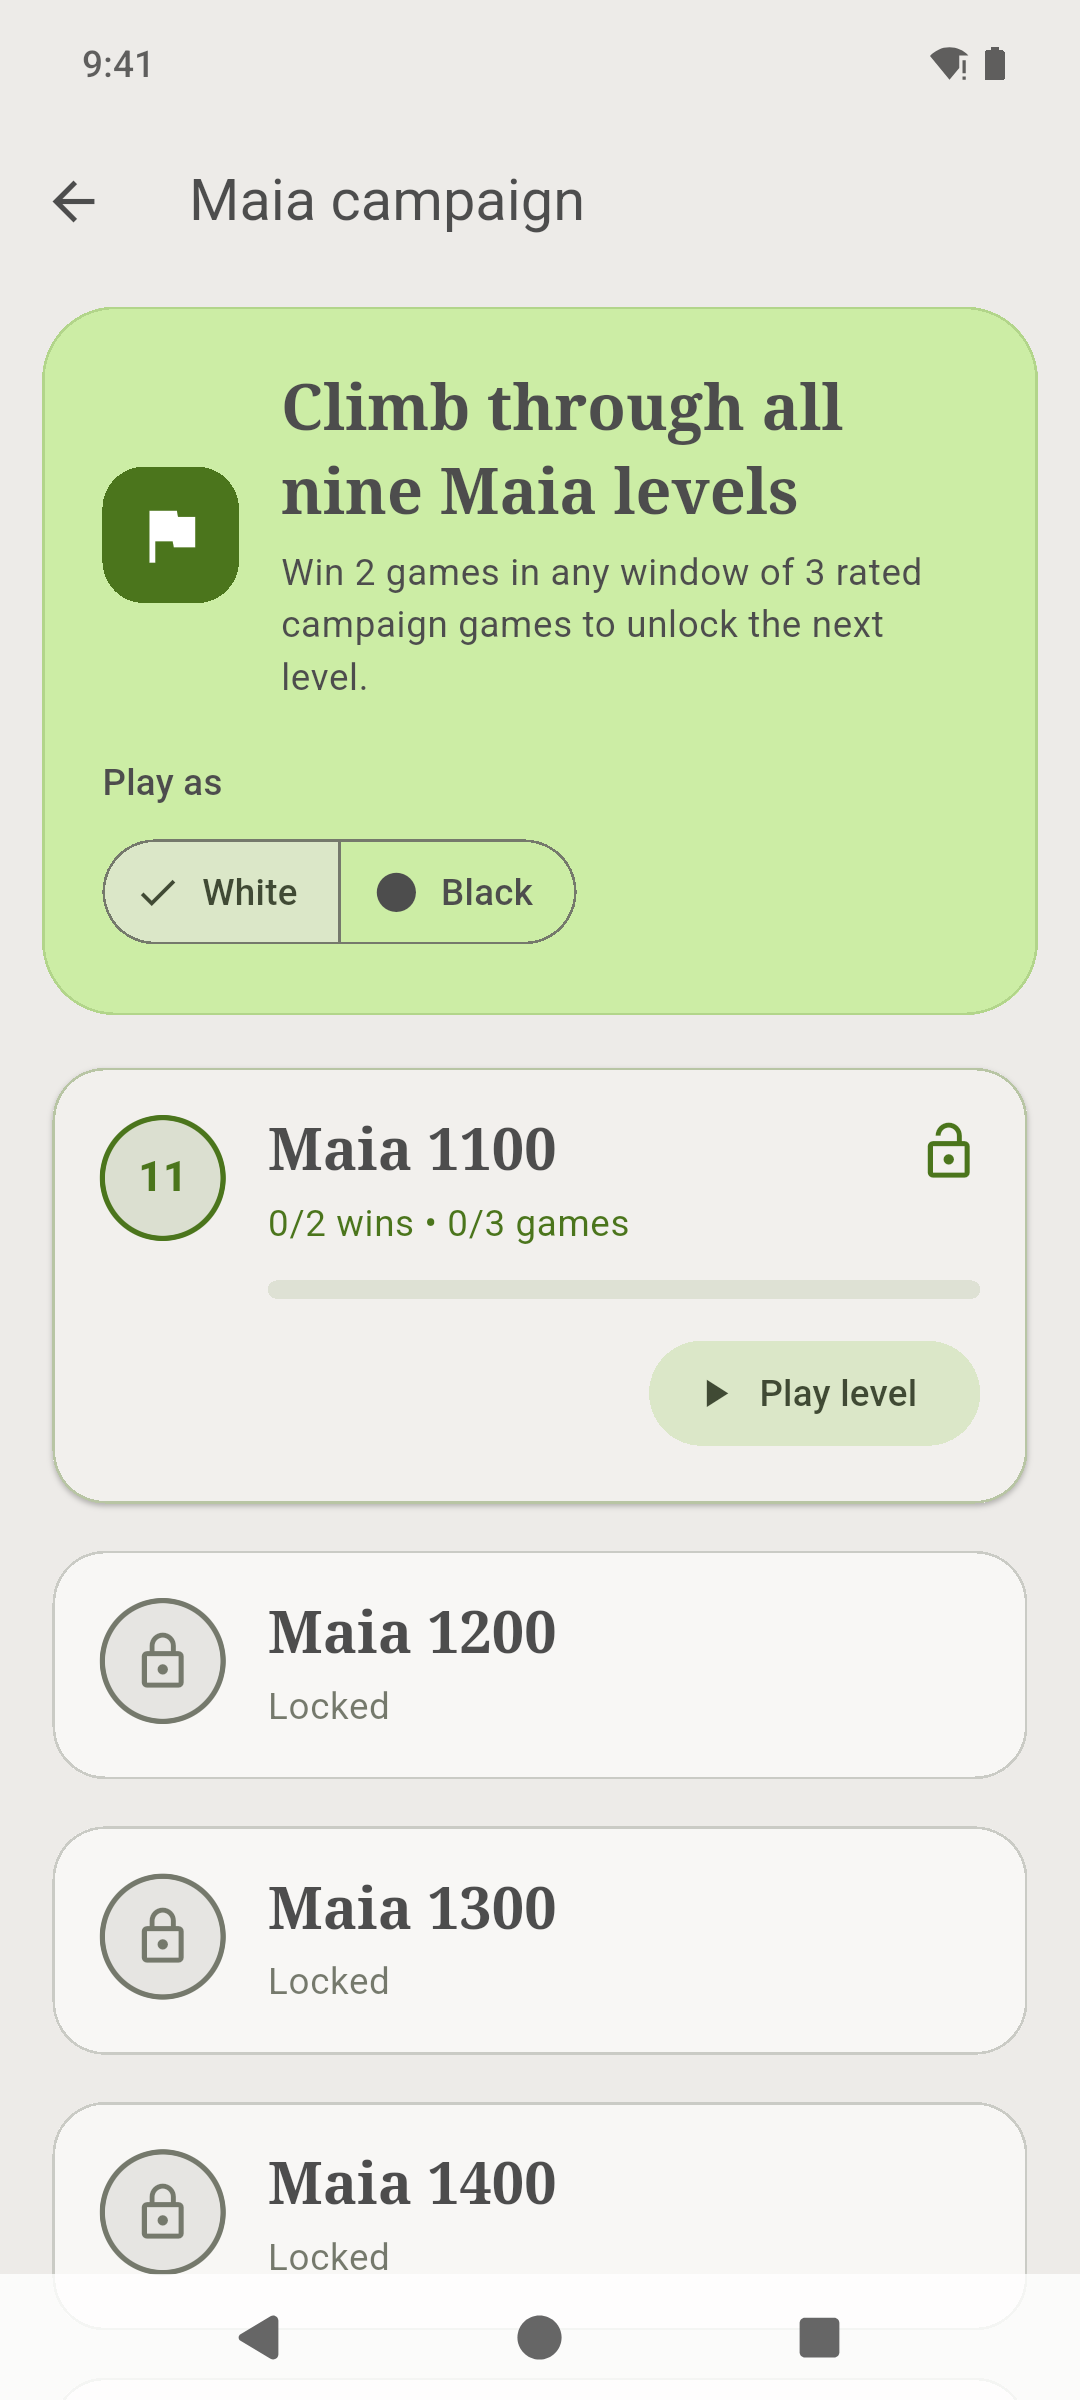
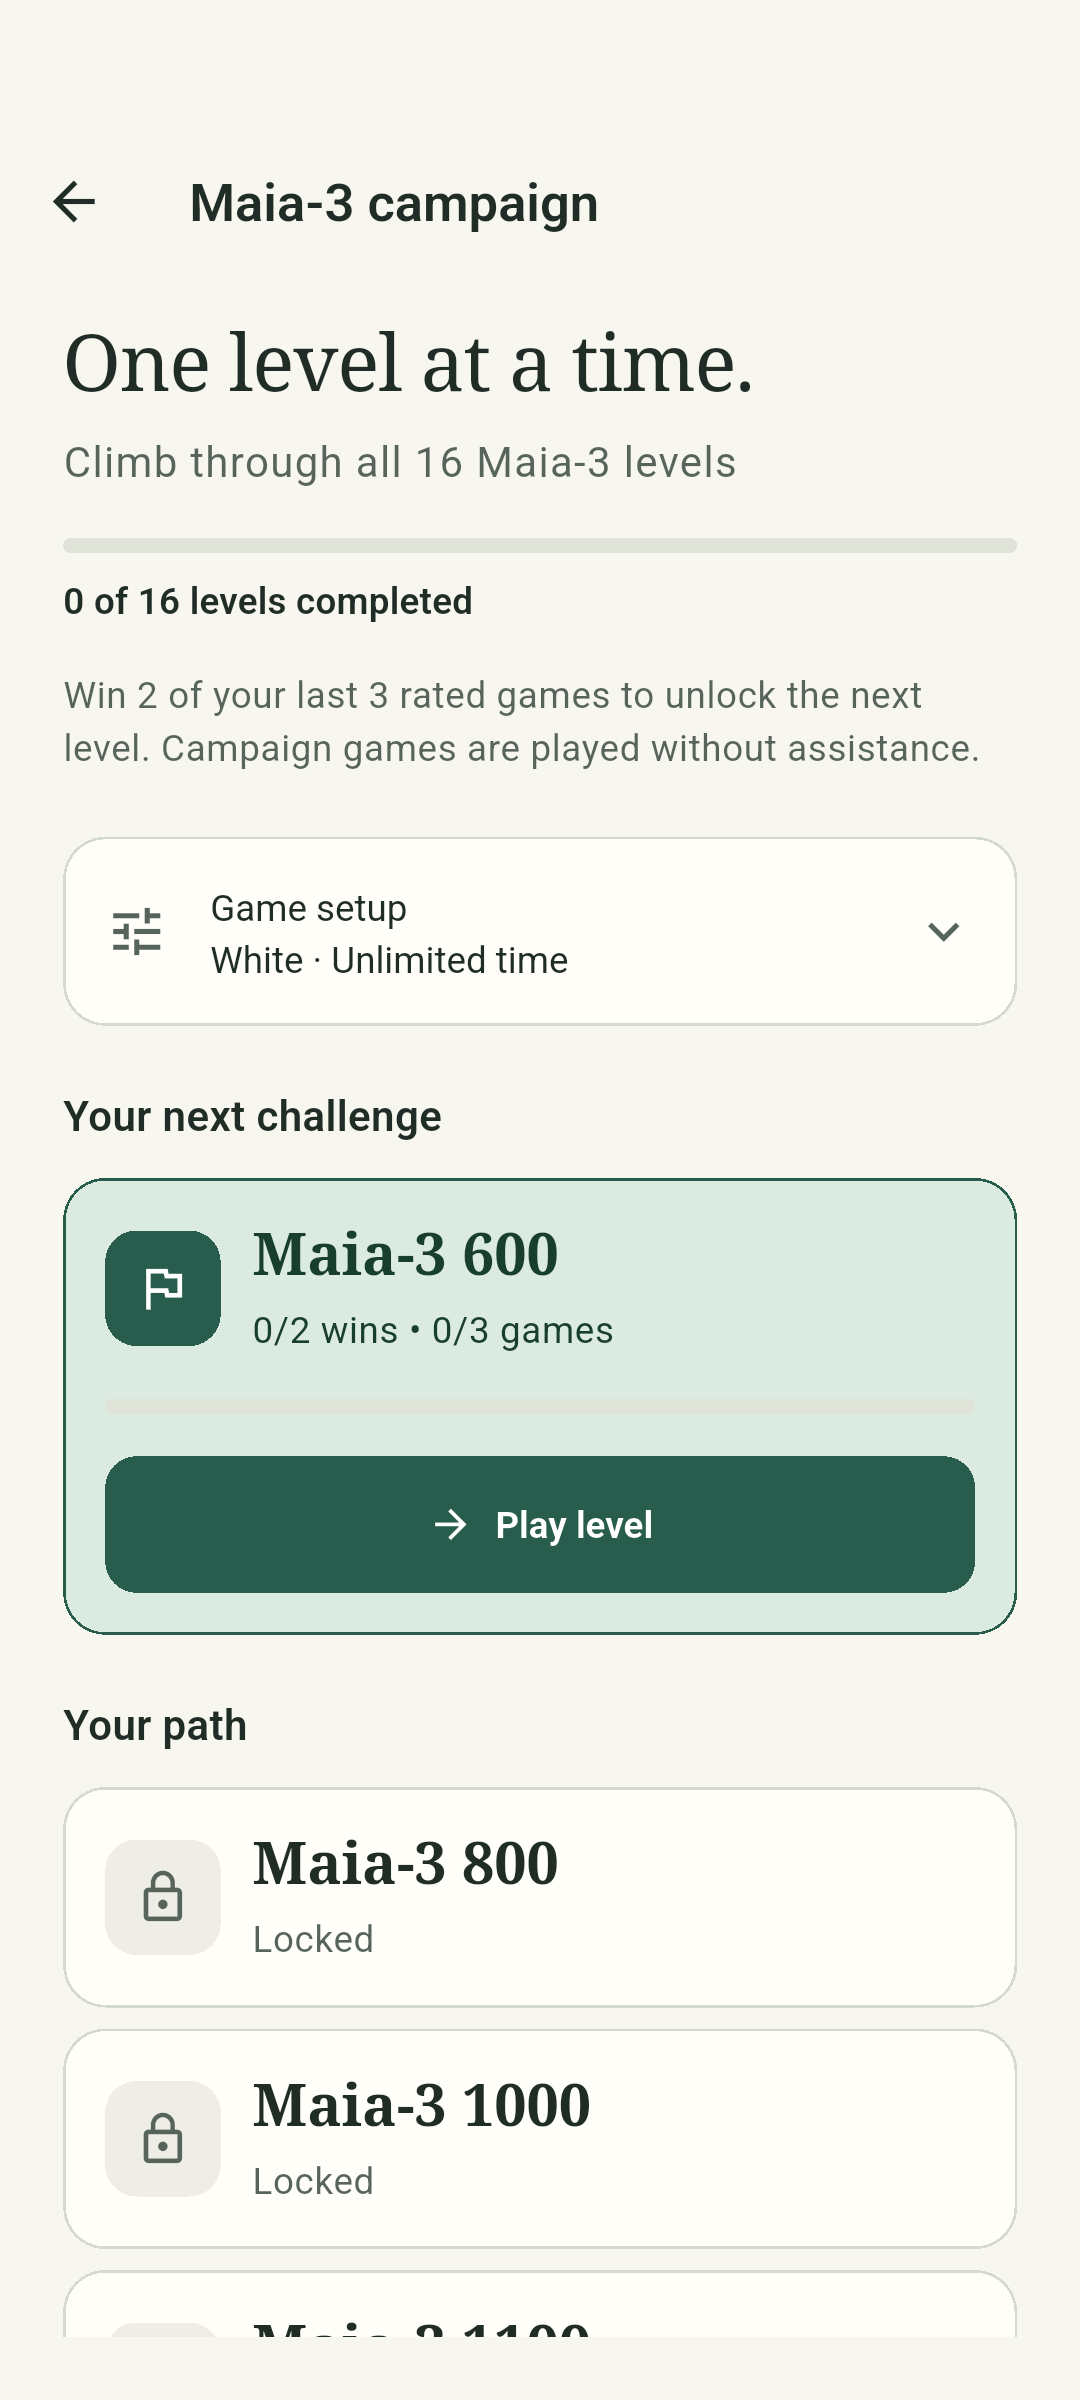
docs(ui): record Android design audit and visual verification

diff --git a/integration_test/ui_audit_android_test.dart b/integration_test/ui_audit_android_test.dart
@@ -1,0 +1,231 @@
+import 'dart:async';
+
+import 'package:dartchess/dartchess.dart';
+import 'package:drift/native.dart';
+import 'package:flutter/material.dart';
+import 'package:flutter/services.dart';
+import 'package:flutter_riverpod/flutter_riverpod.dart';
+import 'package:flutter_test/flutter_test.dart';
+import 'package:integration_test/integration_test.dart';
+import 'package:maia_chess/core/theming/app_page_route.dart';
+import 'package:maia_chess/core/theming/app_theme.dart';
+import 'package:maia_chess/data/local/app_database.dart';
+import 'package:maia_chess/data/providers.dart';
+import 'package:maia_chess/data/repositories/game_repository.dart';
+import 'package:maia_chess/features/difficulty/presentation/campaign_screen.dart';
+import 'package:maia_chess/features/difficulty/presentation/new_game_vs_ai_screen.dart';
+import 'package:maia_chess/features/game/application/game_controller.dart';
+import 'package:maia_chess/features/game/presentation/game_screen.dart';
+import 'package:maia_chess/features/history/domain/game_replayer.dart';
+import 'package:maia_chess/features/history/presentation/history_screen.dart';
+import 'package:maia_chess/features/pgn/application/pgn_service.dart';
+import 'package:maia_chess/features/review/presentation/game_review_screen.dart';
+import 'package:maia_chess/features/review/presentation/review_chart.dart';
+import 'package:maia_chess/features/settings/presentation/appearance_screen.dart';
+import 'package:maia_chess/features/stats/presentation/stats_screen.dart';
+import 'package:maia_chess/main.dart';
+
+/// Repeatable screenshots use a separate in-memory database, never player data.
+/// Run with test_driver/ui_audit.dart to save the rendered Android frames.
+void main() {
+  final binding = IntegrationTestWidgetsFlutterBinding.ensureInitialized();
+  testWidgets('Android UI audit: light, dark, game and navigation', (
+    tester,
+  ) async {
+    await SystemChrome.setEnabledSystemUIMode(SystemUiMode.edgeToEdge);
+    final database = AppDatabase.forTesting(NativeDatabase.memory());
+    final container = ProviderContainer(
+      overrides: [appDatabaseProvider.overrideWithValue(database)],
+    );
+
+    Future<void> capture(
+      String name,
+      Widget screen, {
+      required bool dark,
+    }) async {
+      final navigator = GlobalKey<NavigatorState>();
+      await tester.pumpWidget(
+        UncontrolledProviderScope(
+          container: container,
+          child: MaterialApp(
+            key: UniqueKey(),
+            navigatorKey: navigator,
+            debugShowCheckedModeBanner: false,
+            theme: dark ? AppTheme.dark : AppTheme.light,
+            home: const HomeScreen(),
+          ),
+        ),
+      );
+      await tester.pumpAndSettle();
+      if (screen is! HomeScreen) {
+        unawaited(
+          navigator.currentState!.push(
+            AppPageRoute<void>(builder: (_) => screen),
+          ),
+        );
+        await tester.pumpAndSettle();
+        expect(
+          find.byType(BackButton),
+          findsOneWidget,
+          reason: '$name needs a visible way back',
+        );
+      }
+      if (screen is GameReviewScreen) {
+        // The native engine completes asynchronously; a settled frame alone
+        // does not establish that the completed review is on screen.
+        final chart = find.byType(ReviewChart);
+        for (
+          var attempt = 0;
+          attempt < 300 && chart.evaluate().isEmpty;
+          attempt++
+        ) {
+          await tester.pump(const Duration(milliseconds: 100));
+        }
+        expect(
+          chart,
+          findsOneWidget,
+          reason: 'Capture the completed native Stockfish review',
+        );
+        await tester.pumpAndSettle();
+      }
+      expect(tester.takeException(), isNull, reason: '$name, dark=$dark');
+      await binding.takeScreenshot('$name-${dark ? 'dark' : 'light'}');
+    }
+
+    try {
+      await binding.convertFlutterSurfaceToImage();
+      for (final dark in [false, true]) {
+        final screens = <String, Widget>{
+          'home': const HomeScreen(),
+          'free-play': const NewGameVsAiScreen(),
+          'campaign': const CampaignScreen(),
+          'appearance': const AppearanceScreen(),
+          'library-empty': const HistoryScreen(),
+          'stats-empty': const StatsScreen(),
+          'game': const GameScreen(),
+        };
+        for (final entry in screens.entries) {
+          await capture(entry.key, entry.value, dark: dark);
+        }
+      }
+
+      final reviewGame = await _seedRatedGames(container);
+      final replayed = const GameReplayer().replay(reviewGame);
+      for (final dark in [false, true]) {
+        final populated = <String, Widget>{
+          'library-populated': const HistoryScreen(),
+          'stats-populated': const StatsScreen(),
+          'replay': ReplayScreen(gameId: reviewGame.id),
+          'review': GameReviewScreen(
+            game: reviewGame,
+            replayed: replayed,
+            initialPly: 3,
+          ),
+        };
+        for (final entry in populated.entries) {
+          await capture(entry.key, entry.value, dark: dark);
+        }
+      }
+
+      await tester.pumpWidget(
+        UncontrolledProviderScope(
+          container: container,
+          child: const MaiaChessApp(),
+        ),
+      );
+      await tester.pumpAndSettle();
+      await tester.tap(find.byTooltip('Appearance'));
+      await tester.pumpAndSettle();
+      expect(find.text('Appearance'), findsOneWidget);
+      await tester.pageBack();
+      await tester.pumpAndSettle();
+      expect(find.text('Your next move.'), findsOneWidget);
+    } finally {
+      await tester.pumpWidget(const SizedBox.shrink());
+      await container.read(gameControllerProvider.notifier).shutdownEngines();
+      container.dispose();
+      await database.close();
+    }
+  }, timeout: const Timeout(Duration(minutes: 4)));
+}
+
+/// Legal, reproducible games go through the same completion transaction as play,
+/// including derived ratings. PGN parsing supplies canonical SAN/FEN fixtures.
+Future<StoredGame> _seedRatedGames(ProviderContainer container) async {
+  final games = container.read(gameRepositoryProvider);
+  const fixtures = [
+    (
+      id: 'ui-win',
+      rating: 1100,
+      pgn: '[Result "1-0"]\n\n1. e4 e5 2. Bc4 Nc6 3. Qh5 Nf6 4. Qxf7# 1-0',
+    ),
+    (
+      id: 'ui-loss',
+      rating: 1200,
+      pgn: '[Result "0-1"]\n\n1. f3 e5 2. g4 Qh4# 0-1',
+    ),
+    (
+      id: 'ui-draw',
+      rating: 1100,
+      pgn:
+          '[Result "1/2-1/2"]\n\n1. e4 e5 2. Nf3 Nc6 3. Bb5 a6 4. Ba4 Nf6 5. O-O Be7 1/2-1/2',
+    ),
+  ];
+  for (final (index, fixture) in fixtures.indexed) {
+    final date = DateTime.utc(2026, 11, 1 + index, 18);
+    final parsed = const PgnService().parseImport(
+      pgn: fixture.pgn,
+      id: fixture.id,
+      importedAtUtc: date,
+    );
+    final ongoing = StoredGame(
+      id: fixture.id,
+      startedAtUtc: date,
+      lastModifiedAtUtc: date,
+      status: StoredGameStatus.ongoing,
+      result: StoredGameResult.ongoing,
+      evaluated: true,
+      campaignMode: false,
+      levelRating: fixture.rating,
+      playerSide: Side.white,
+      initialFen: parsed.initialFen,
+      currentFen: parsed.initialFen,
+      moves: const [],
+    );
+    await games.beginGame(ongoing);
+    expect(
+      await games.completeGame(
+        ongoing.copyWith(
+          endedAtUtc: date.add(const Duration(minutes: 10)),
+          lastModifiedAtUtc: date.add(const Duration(minutes: 10)),
+          status: StoredGameStatus.completed,
+          result: parsed.result,
+          termination: parsed.result == StoredGameResult.draw
+              ? GameTermination.unknown
+              : GameTermination.checkmate,
+          currentFen: parsed.currentFen,
+          pgn: fixture.pgn,
+          moves: [
+            for (final move in parsed.moves)
+              StoredGameMove(
+                ply: move.ply,
+                uci: move.uci,
+                san: move.san,
+                fenAfter: move.fenAfter,
+                actor: move.ply.isOdd
+                    ? GameMoveActor.player
+                    : GameMoveActor.maia,
+                playedAtUtc: date.add(Duration(seconds: move.ply * 30)),
+              ),
+          ],
+        ),
+      ),
+      isTrue,
+    );
+  }
+  final stats = await container.read(statsRepositoryProvider).get();
+  expect(stats.evaluatedGames, 3);
+  expect(stats.ratingHistory, hasLength(3));
+  expect(await games.watchLibrary().first, hasLength(3));
+  return (await games.getGame('ui-loss'))!;
+}

diff --git a/test_driver/ui_audit.dart b/test_driver/ui_audit.dart
@@ -1,0 +1,12 @@
+import 'dart:io';
+
+import 'package:integration_test/integration_test_driver_extended.dart';
+
+Future<void> main() => integrationDriver(
+  onScreenshot: (name, bytes, [args]) async {
+    final file = File('build/ui-audit/$name.png');
+    await file.parent.create(recursive: true);
+    await file.writeAsBytes(bytes);
+    return true;
+  },
+);

diff --git a/AGENTS.md b/AGENTS.md
@@ -1,0 +1,69 @@
+# AGENTS.md
+
+Instruções para agentes de IA (e para humanos) que trabalham neste repositório: um app Android em Dart.
+
+## Princípios
+
+1. Tudo fica versionado no git.
+2. O código é bem escrito.
+3. O pipeline de CI/CD funciona sempre.
+4. A entrega vai para a `main`, e o nightly é verificado depois.
+
+## 1. Versionamento
+
+- Tudo que faz parte do projeto vai para o git: código, testes, configurações, workflows de CI/CD, scripts e documentação.
+- Nunca versionar segredos, chaves de assinatura ou arquivos gerados pelo build.
+- Commits pequenos e atômicos, com mensagens claras que explicam o que mudou e por quê.
+- Ao terminar uma tarefa, não deve sobrar nada fora do git.
+- Nunca reescrever o histórico da `main` nem pular as verificações do repositório.
+
+## 2. Qualidade do código
+
+- Seguir as convenções da linguagem e as regras de lint e formatação já configuradas no projeto.
+- Nomes claros, funções pequenas, uma responsabilidade por classe ou função.
+- Sem código morto, sem código comentado, sem logs de debug esquecidos.
+- Tratar erros de forma explícita; não engolir exceções.
+- Comentários explicam o porquê, não o quê.
+- Comportamento novo vem com teste; correção de bug vem com teste de regressão.
+- Seguir a estrutura e os padrões que já existem. Só adicionar dependência nova se for realmente necessária.
+
+## 3. Antes de commitar
+
+Rodar localmente as mesmas verificações que o pipeline roda (formatação, análise estática e testes). Se algo falhar, corrigir a causa antes de seguir. Não commitar com verificações falhando.
+
+## 4. Pipeline CI/CD
+
+- Garantir que o pipeline está funcionando corretamente: ao mexer em código, dependências, versões, assinatura ou no próprio pipeline, confirmar que ele continua válido.
+- Nunca desativar etapas, afrouxar regras ou ignorar testes só para o pipeline passar. Corrigir a causa real.
+- Segredos só via mecanismo seguro do CI, nunca no repositório.
+
+## 5. Entrega na `main`
+
+1. Verificações locais passando.
+2. Commit com mensagem clara.
+3. Enviar para a `main`.
+4. Acompanhar o pipeline até o fim.
+5. Se falhar: ler os logs, corrigir e enviar de novo. A `main` não pode ficar quebrada.
+6. Se não for possível corrigir rápido, reverter a mudança e reportar o problema.
+
+## 6. Verificação do nightly
+
+Com a `main` verde, confirmar que o nightly é gerado corretamente:
+
+- O build nightly existe, roda no agendamento esperado e também pode ser disparado manualmente.
+- Quando a mudança afetar build, release ou pipeline, disparar o nightly e acompanhar até o fim.
+- Conferir que:
+  - a execução terminou com sucesso;
+  - o artefato do app foi gerado e publicado;
+  - a versão identifica claramente que é um nightly;
+  - o build saiu do commit mais recente da `main`.
+- Se algo estiver errado, tratar como bug: corrigir, enviar e verificar de novo.
+
+## 7. Relatório final
+
+Ao concluir, informar:
+
+- o que foi enviado para a `main`;
+- o status do pipeline;
+- o status do nightly;
+- pendências ou riscos, se houver.

diff --git a/README.md b/README.md
@@ -33,18 +33,18 @@ You'll need **Android 7.0 or newer on a 64-bit ARM device (ARM64)**. The Maia-3 
 3. Launch **Maia Chess** and choose a mode. You're ready to play.
 
 Want the newest development build? [Try the nightly](https://github.com/lsiddd/maia_chess/releases/tag/nightly),
-updated after changes to `main` pass CI.
+updated after verified changes to `main`, daily at 06:17 UTC, or by manual nightly dispatch.
 
 ## A look inside
 
 <table>
   <tr>
-    <td align="center" width="33%"><strong>Play against Maia</strong></td>
+    <td align="center" width="33%"><strong>Play and practise</strong></td>
     <td align="center" width="33%"><strong>Climb the campaign</strong></td>
     <td align="center" width="33%"><strong>Make it yours</strong></td>
   </tr>
   <tr>
-    <td align="center"><img src="docs/images/game.png" alt="A game against Maia with the chessboard, move history, and practice toolbar" width="250"></td>
+    <td align="center"><img src="docs/images/game.png" alt="Chessboard with move history and the practice toolbar" width="250"></td>
     <td align="center"><img src="docs/images/campaign.png" alt="Maia campaign showing the first level and the path to higher opponents" width="250"></td>
     <td align="center"><img src="docs/images/appearance.png" alt="Appearance settings with a board preview, app theme, and board colours" width="250"></td>
   </tr>
@@ -149,7 +149,9 @@ Cburnett pieces. Your settings also carry over to game replays.
 
 The board works in portrait and landscape, supports tap and drag controls,
 and includes square labels and accessibility announcements. The screen stays
-awake while you play.
+awake while you play. Reduced-motion preferences, larger text, and Android
+back navigation are respected throughout the redesigned screens.
+See the [design decisions and validation](docs/ui-ux-redesign.md).
 
 Your games, settings, statistics, and campaign progress are stored on your
 device. You can play without an account or an internet connection and take
